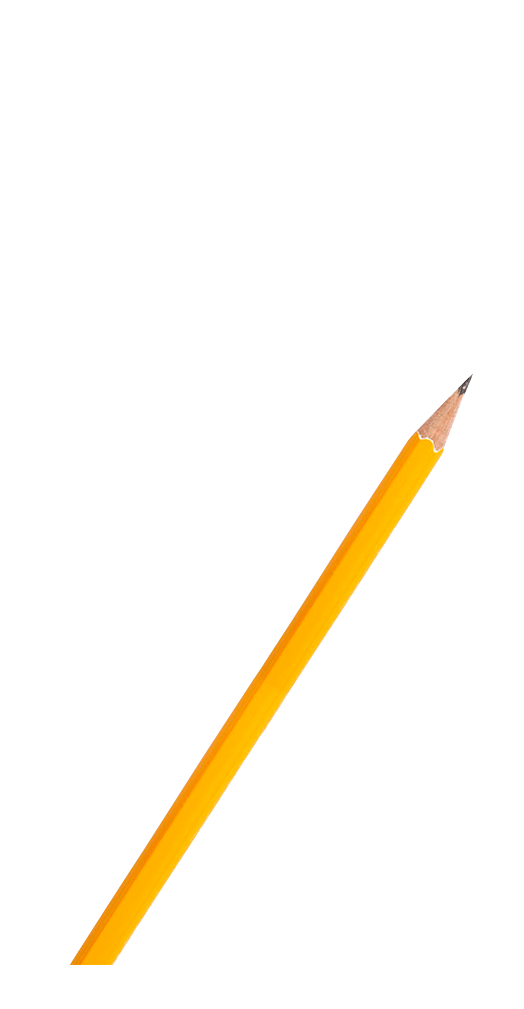
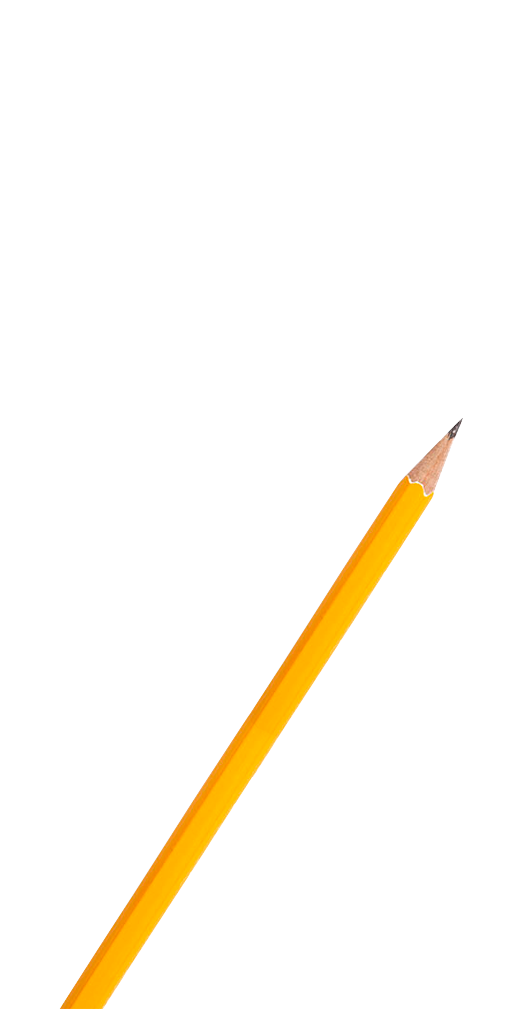
implementacoes no parallax

Changed region(s): [[0.1221, 0.3687, 0.916, 1.0]]

diff --git a/assets/css/main.min.css b/assets/css/main.min.css
@@ -354,7 +354,7 @@ FIM - HEADER
 
 .servicos__web .box-parallax{
     max-width: 524px;
-    background: url('../images/service-web-back.png') no-repeat bottom left;
+    /* background: url('../images/service-web-back.png') no-repeat bottom left; */
     right: 0;
     z-index: 0;
 }
@@ -367,24 +367,64 @@ FIM - HEADER
 }
 
 .servicos__design  .box-parallax__middle{
-    background: url('../images/service-design-middle.png') no-repeat bottom left;
+    background: url('../images/service-design-middle.png') no-repeat top left;
     width: 100%; 
     height: 100%;
     z-index: 0;
 }
 
 .servicos__design  .box-parallax__front{
-    background: url('../images/service-design-front.png') no-repeat bottom left;
+    background: url('../images/service-design-front.png') no-repeat top left;
     width: 100%; 
     height: 100%;
     z-index: 1;
 }
+
+
+.servicos__design  .box-parallax__front-img,
+.servicos__design  .box-parallax__middle-img{
+    position: absolute;
+    display: block;
+    left: 0;
+    bottom: 0;
+    width: auto; 
+    height: auto;
+    max-width: 100%;
+}
+.servicos__design  .box-parallax__middle-img{
+    z-index: 0;
+}
+
+.servicos__design  .box-parallax__front-img{
+    z-index: 1;
+    bottom: -50px;
+}
+
 
 .servicos__web  .box-parallax__front{
     background: url('../images/service-web-front.png') no-repeat bottom left;
     width: 100%; 
     height: 100%;
     z-index: 1;
+}
+
+.servicos__web  .box-parallax__front-img,
+.servicos__web  .box-parallax__back-img{
+    position: absolute;
+    display: block;
+    left: 0;
+    bottom: 0;
+    width: auto; 
+    height: auto;
+    max-width: 100%;   
+}
+.servicos__web  .box-parallax__front-img{
+    z-index: 1;
+    bottom: -50px;
+}
+.servicos__web  .box-parallax__back-img{
+    z-index: 0;
+    bottom: 100px;
 }
 
 /*==========================================

diff --git a/templates/servico-loop.php b/templates/servico-loop.php
@@ -41,9 +41,10 @@ $term_web = get_term_by('name', 'web', 'tipo-de-servico');
 						</p>
 					</header> 
 
-					<figure class="box-parallax" data-paroller-factor="0.10">
-						<span class="box-parallax__front" data-paroller-factor="-0.02"></span>
-						<span class="box-parallax__middle" data-paroller-factor="0.17"></span>
+					<figure class="box-parallax" data-paroller-factor="0.25">
+						<img src="<?php echo get_template_directory_uri(); ?>/assets/images/service-design-front-img.png" class="box-parallax__front-img" data-paroller-factor="0.10" data-paroller-type="foreground" data-paroller-direction="vertical"/>
+						<img src="<?php echo get_template_directory_uri(); ?>/assets/images/service-design-middle-img.png" class="box-parallax__middle-img" data-paroller-factor="-0.10" data-paroller-type="foreground">
+						
 					</figure>
 
 					<!-- <figure class="box__lapis"></figure> -->
@@ -177,9 +178,12 @@ $term_web = get_term_by('name', 'web', 'tipo-de-servico');
 					</header> 
 					 
 					<!-- <figure class="box__smarthphone"></figure> -->
-					<figure class="box-parallax" data-paroller-factor="0.075">
-						<span class="box-parallax__front" data-paroller-factor="-0.075"></span>
-						<!-- <img class="box-parallax__front" src="<?php echo get_template_directory_uri() . '/assets/images/service-web-front.png'; ?>"> -->
+					<figure class="box-parallax">
+						<!-- <span class="box-parallax__front" data-paroller-factor="-0.075"></span> -->
+						<img class="box-parallax__front-img" data-paroller-factor="0.05" data-paroller-type="foreground" data-paroller-direction="vertical" src="<?php echo get_template_directory_uri() . '/assets/images/service-web-front-img.png'; ?>">
+
+						<img class="box-parallax__back-img" data-paroller-factor="-0.20" data-paroller-type="foreground" data-paroller-direction="vertical" src="<?php echo get_template_directory_uri() . '/assets/images/service-web-back-img.png'; ?>">
+
 					</figure>
 										
 				</div>

diff --git a/templates/html-header.php b/templates/html-header.php
@@ -38,7 +38,7 @@
           } else {
 
             $nameNav = 'page-nav';
-
+            
           }
           wp_nav_menu( array(
           'menu'        => $nameNav, 
